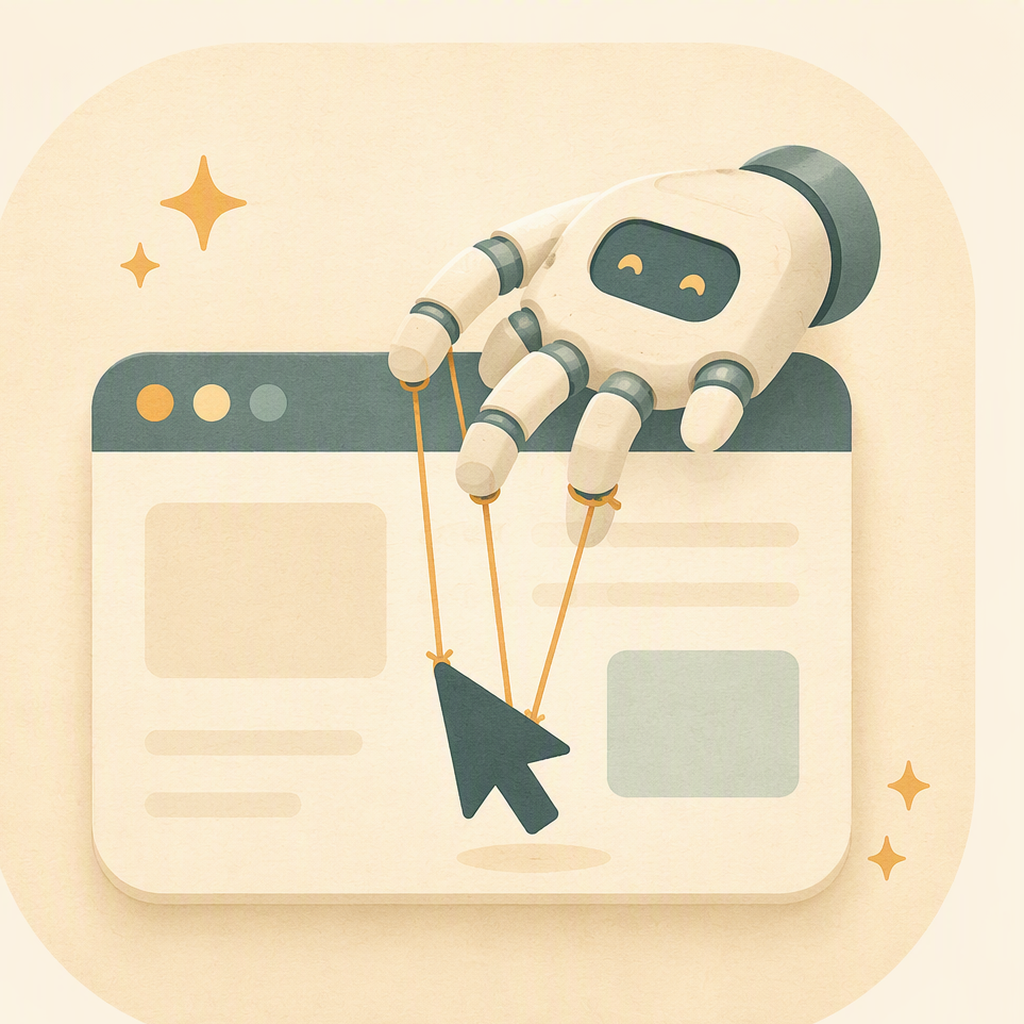
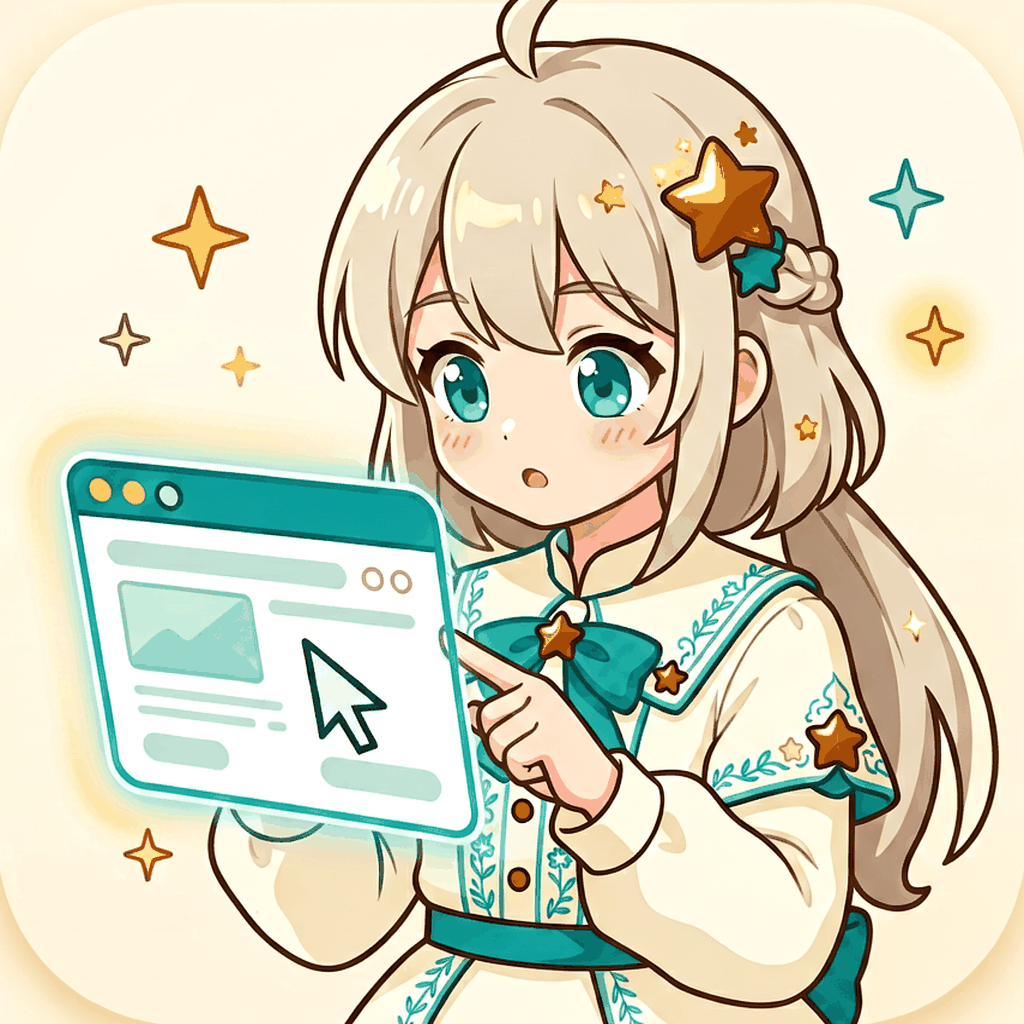
feat: 新图标（二次元萌系立绘）+ 图标体积 1.25MB → 420KB
## 新图标
用 Agnes（agnes-image-2.5-flash）生成：可爱的二次元少女双手捧着一块悬浮的
浏览器窗口、指着里面的光标箭头。配色沿用旧图标（奶油白 / 青绿 / 琥珀金），
"AI 在操纵网页"的意象保留。

关于参考图：本想用旧图标做图生图（image 字段），但该 provider 的
/images/generations **不支持图生图** —— 带 image 字段会返回误导性的
"Invalid API key"（纯文本 prompt 正常）。改为在提示词里精确描述旧图标的
配色与构图元素。

裁剪：生成图带一圈"圆角卡片 + 外留白"（四周各约 82px，看着像图标里又套了
一个图标）。检测出圆角方块的实际边界后裁掉外圈，让画面铺满画布 ——
缩到 64px 时主体更大更清楚。

## 体积
  尺寸  1024×1024 → 1024×1024（不变）
  体积  1.25 MB  → 420 KB

做法：调色板量化到 256 色。扁平插画（大色块+硬边）几乎无损。

## 新增检查
- B3b 图标 < 500 KB（面板每次渲染插件列表都要加载它）
- B3c 图标正方形且 ≥ 256px
反向验证：换回 1.25MB 旧图标 → B3b 报红。

## 验证
回归套件 357/357 全绿。

diff --git a/regression/checks/spec_compliance.py b/regression/checks/spec_compliance.py
@@ -162,6 +162,28 @@ def run(r) -> None:
          bool(icon) and (PLUGIN_DIR / str(icon)).is_file(),
          f"icon={icon!r}")
 
+    # B3b 图标体积与尺寸
+    #  ⚠ 图标会被面板**每次渲染插件列表时加载**，太大就是白白的网络/内存开销。
+    #    实测旧图标 1024×1024 PNG 有 1.25 MB —— 一张 PNG 比整个插件的代码还大。
+    #    改成立绘风格后重新生成，压到 397 KB（256 色量化；扁平插画几乎无损）。
+    _icon_path = PLUGIN_DIR / str(icon or "")
+    if _icon_path.is_file():
+        _sz = _icon_path.stat().st_size
+        r.ok("B3b 图标 < 500 KB？（面板每次渲染都要加载它）",
+             _sz < 500 * 1024, f"{_sz:,} bytes")
+        try:
+            from PIL import Image as _Img
+            with _Img.open(_icon_path) as _im:
+                _w, _h = _im.size
+            r.ok("B3c 图标是正方形且 ≥256px（缩到小尺寸也不糊）",
+                 _w == _h and _w >= 256, f"{_w}×{_h}")
+        except ImportError:
+            r.warn("没有 Pillow，跳过图标尺寸检查", "apk add py3-pillow 后可启用")
+        except Exception as e:
+            r.ok("B3c 图标可被解析", False, f"{type(e).__name__}: {e}")
+    else:
+        r.ok("B3b/B3c 图标存在（体积与尺寸检查的前提）", False, f"{_icon_path} 不在")
+
     # locales 可选，但给了就必须是 dict
     if mf.get("locales") is not None:
         r.ok("B4 locales 是对象且含 zh",

diff --git a/README.md b/README.md
@@ -489,6 +489,46 @@ python -m playwright install chromium
 <details>
 <summary><b>2.1.x</b> — 49 个版本　·　最新的一系列：双后端重构、安全加固、以及大量审查修复</summary>
 
+### v2.1.51（2026-09-18）
+
+**新图标：二次元萌系立绘风格。** 顺带把图标体积从 1.25 MB 压到 420 KB。
+
+#### 新图标
+
+用 Agnes（`agnes-image-2.5-flash`）生成 —— 一位可爱的二次元少女，
+双手捧着一块悬浮的浏览器窗口、指着里面的光标箭头。
+配色沿用旧图标的品牌色（奶油白 / 青绿 / 琥珀金），"AI 在操纵网页"的意象也保留了。
+
+**关于"参考图"**：本来打算把旧图标作为参考图喂给模型（`image` 字段做图生图），
+但这个 provider 的 `/images/generations` **不支持图生图** —— 带上 `image` 字段就返回
+一个误导性的 `Invalid API key`（纯文本 prompt 则完全正常）。
+所以改为**在提示词里精确描述旧图标的配色与构图元素**，效果一样。
+
+**裁剪**：模型生成的图带了一圈"圆角卡片 + 外留白"（四周各约 82px，
+看着像"图标里又套了一个图标"）。检测出圆角方块的实际边界后裁掉外圈，
+让画面铺满整个画布 —— 缩到 64px 时主体也更大更清楚。
+
+#### 体积
+
+| | 之前 | 之后 |
+|---|---|---|
+| 尺寸 | 1024×1024 | 1024×1024 |
+| 体积 | **1.25 MB** | **420 KB** |
+
+做法是**调色板量化到 256 色**。扁平插画（大色块 + 硬边）几乎没有损失，
+但体积只有原来的三分之一。
+
+#### 新增检查
+
+- **B3b**：图标必须 < 500 KB（面板每次渲染插件列表都要加载它）
+- **B3c**：图标必须正方形且 ≥ 256px
+
+反向验证：把 1.25 MB 的旧图标换回去 → B3b 立刻报红。
+
+#### 结果
+
+回归套件 **357/357 全绿**。版本 2.1.50 → 2.1.51。
+
 ### v2.1.50（2026-09-18）
 
 **紧急修复：插件起不来。**
